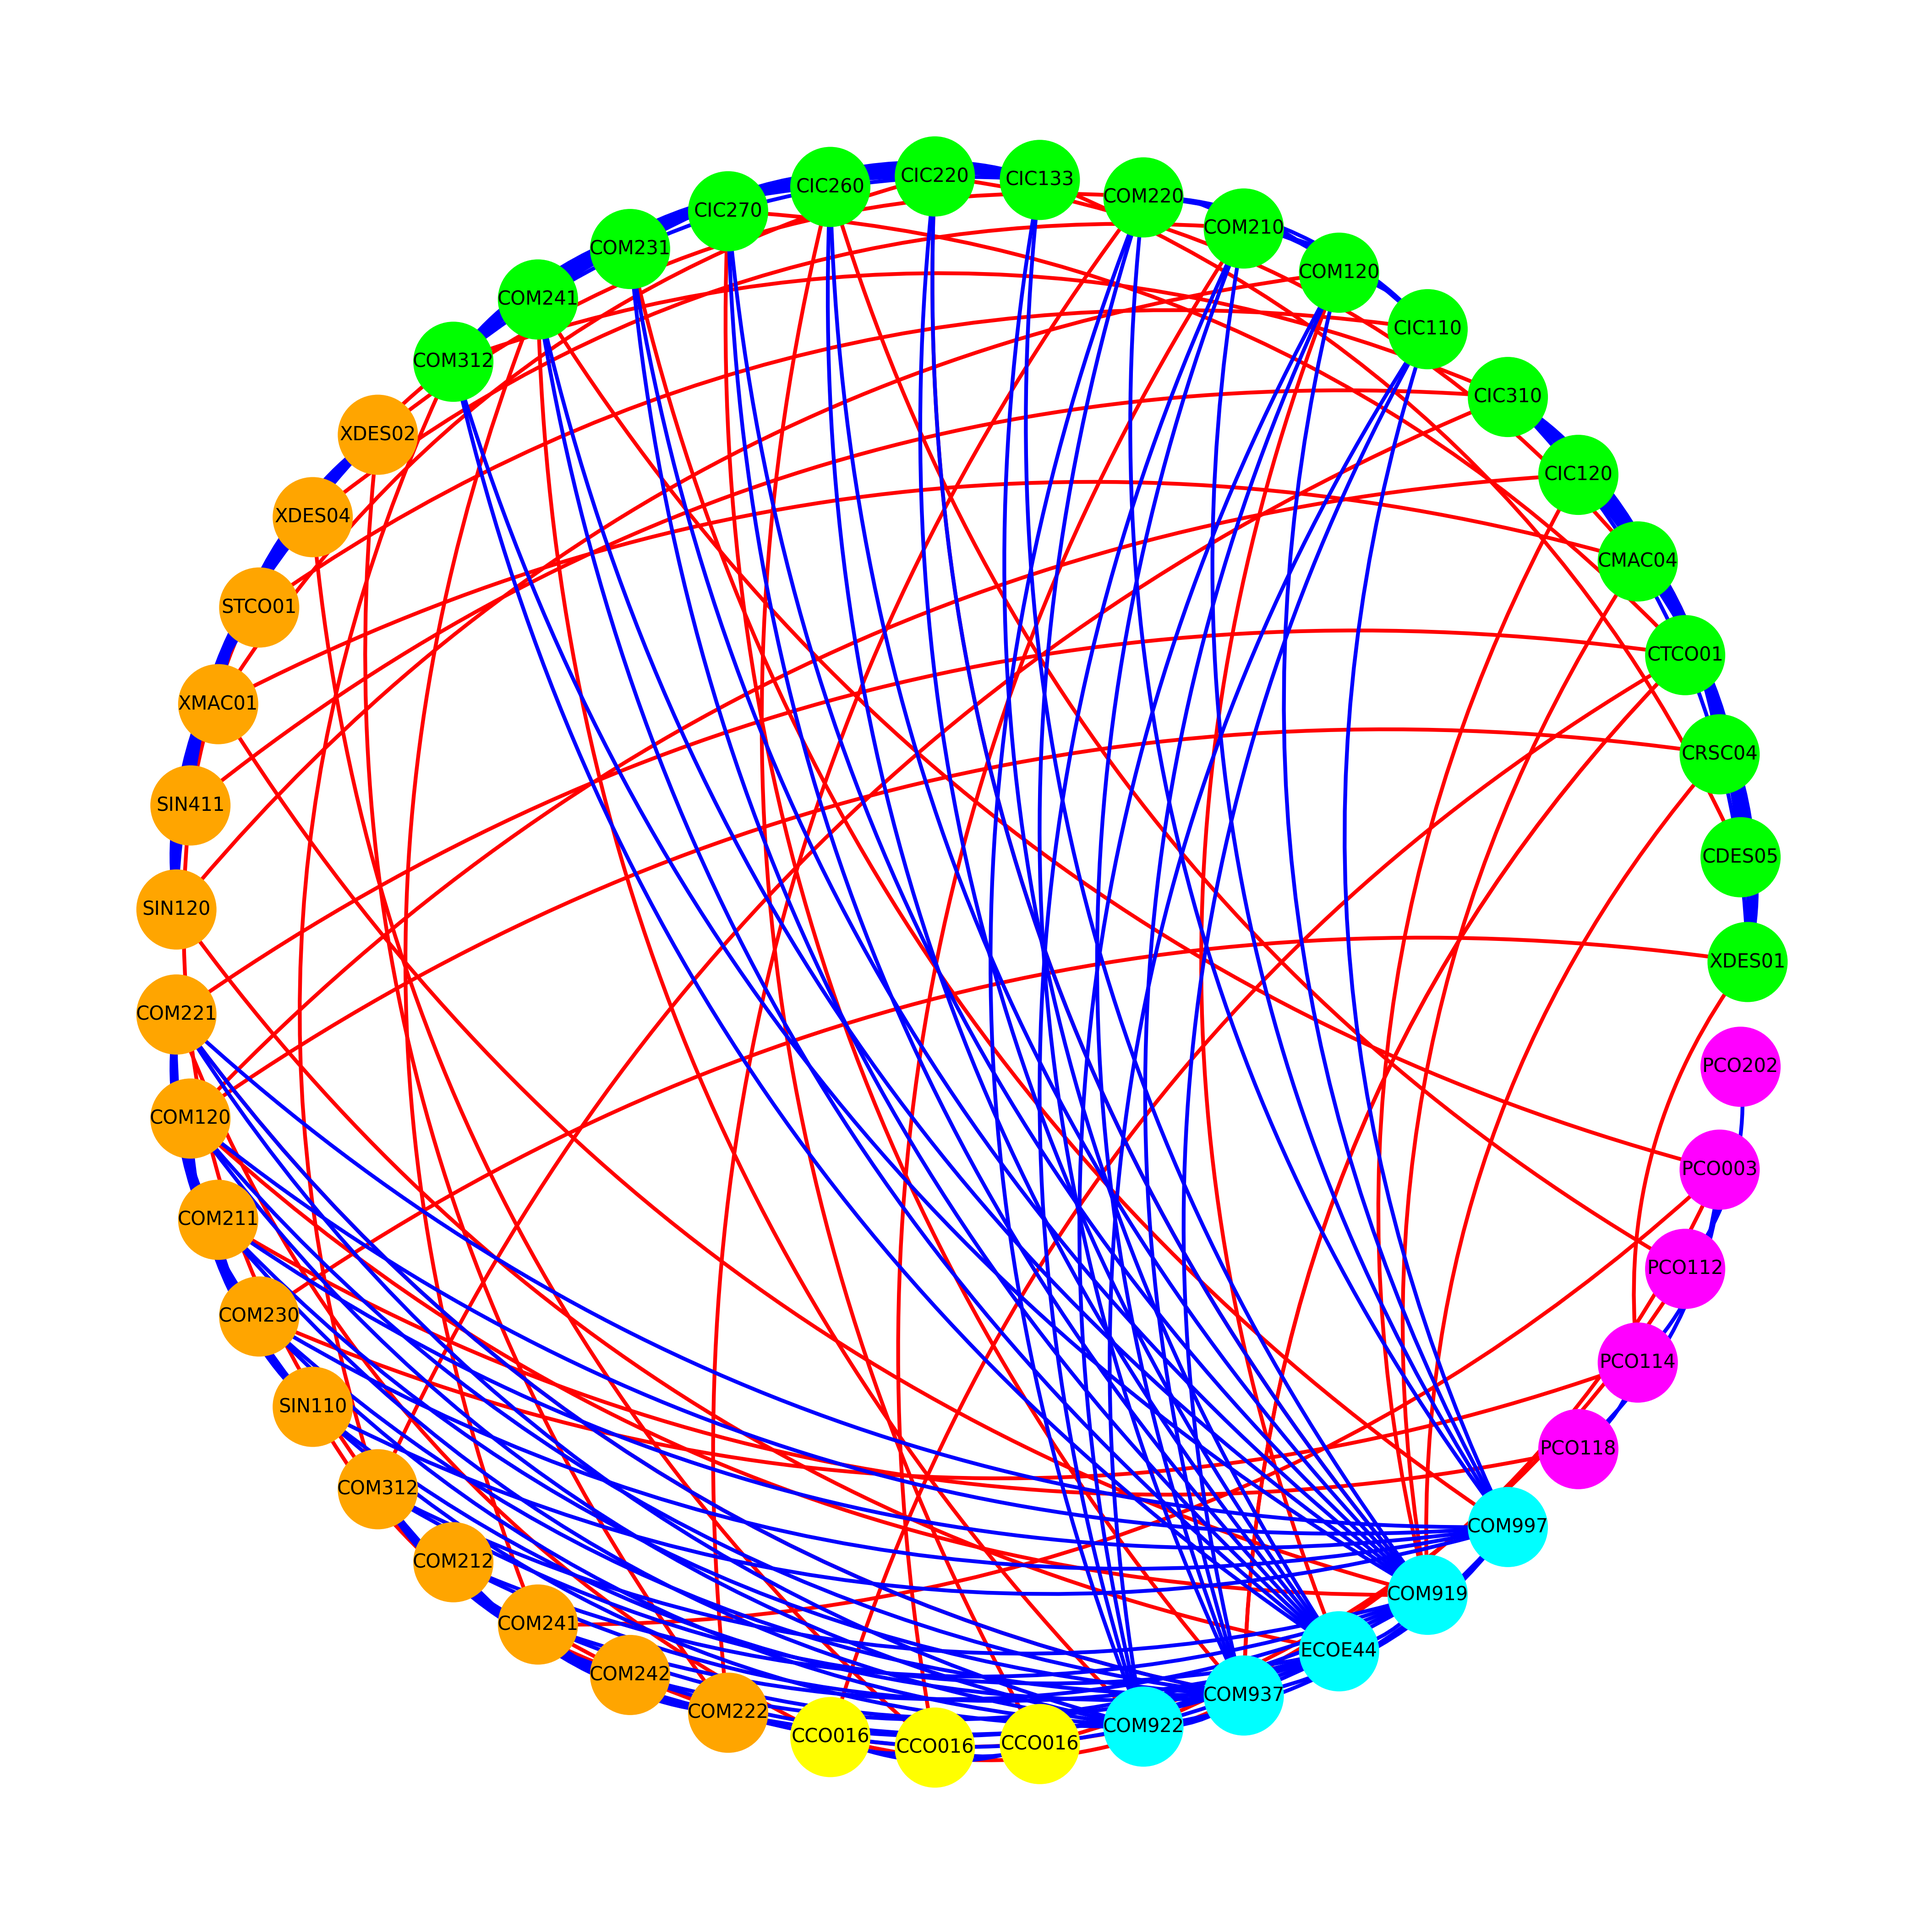
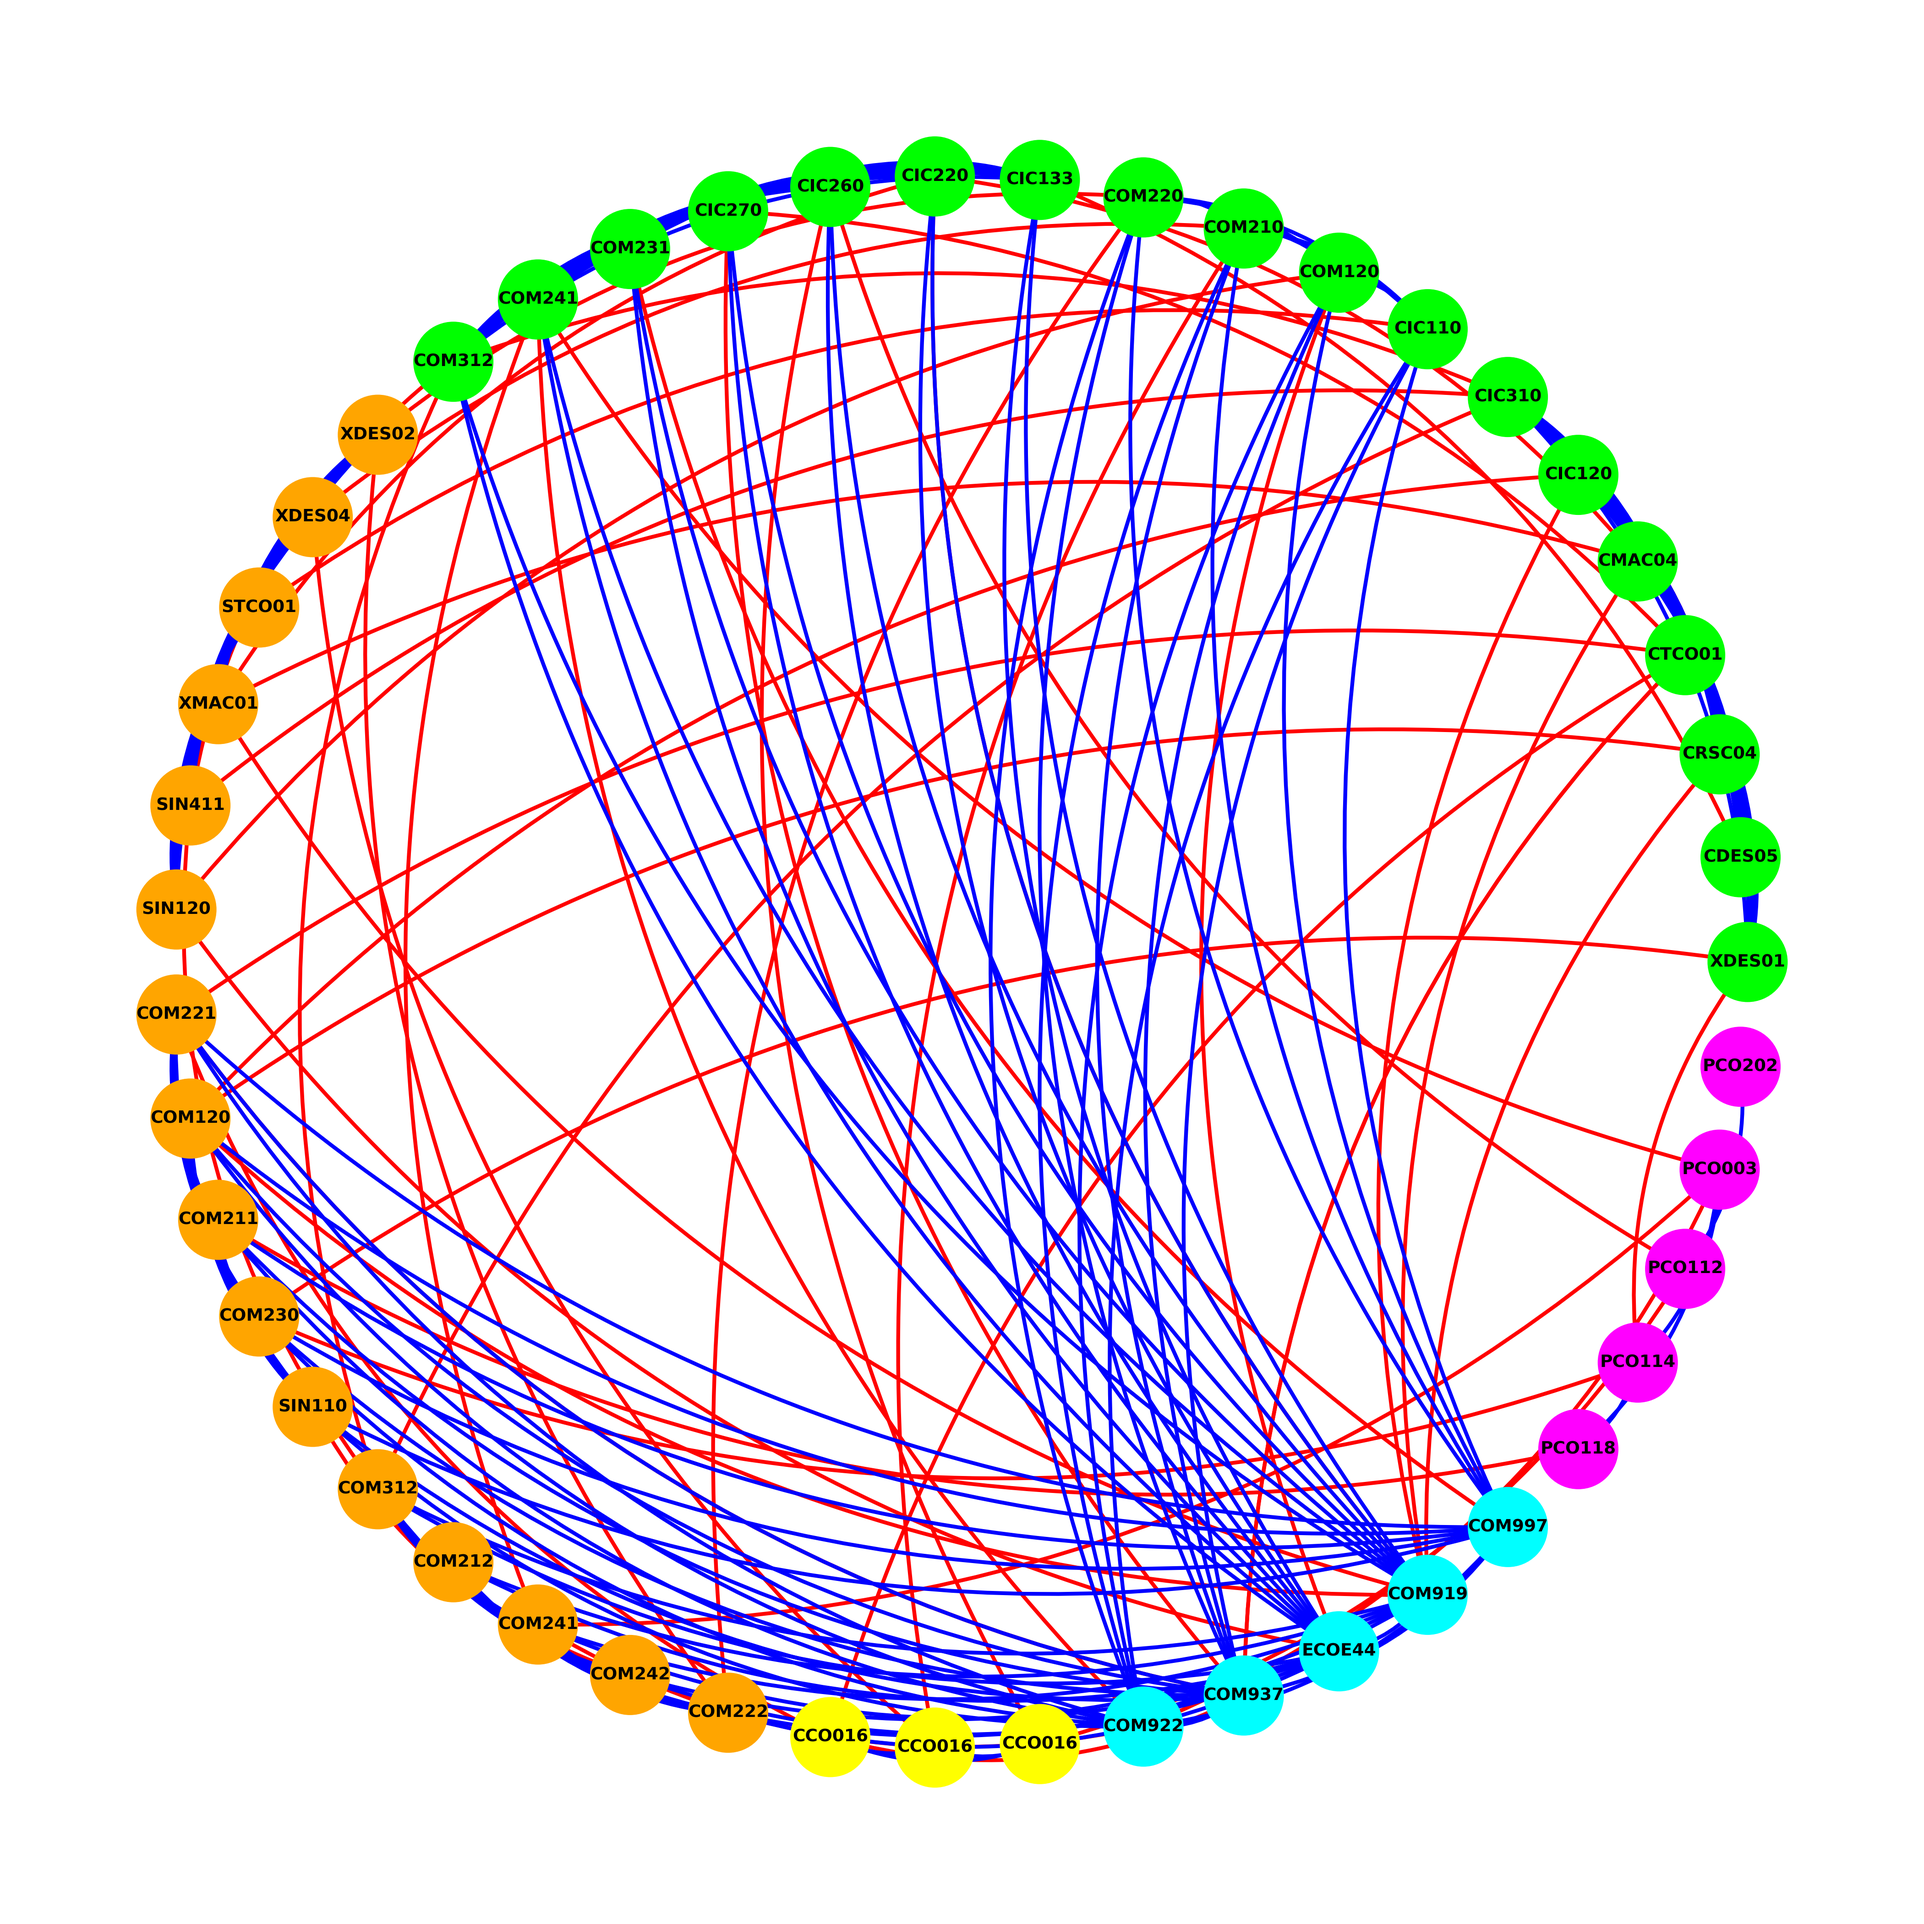
ajuste na fonte do grafo para melhor legibilidade

Changed region(s): [[0.0936, 0.3431, 0.1248, 0.3743]]

diff --git a/src/model/grafo.py b/src/model/grafo.py
@@ -60,9 +60,9 @@ def grafo(aulas_dict: dict, save_path):
                 G.add_edge(nome_i, nome_j, curso="Curso", color='blue')
                 num_restricoes_periodos += 1
 
-    print(f"A instancia {save_path[-15:]} possui {G.number_of_edges()} restricoes no total.")
-    print(f"{num_restricoes_periodos} restrições relacionadas aos periodos em comum.")
-    print(f"{num_restricoes_professores} restrições relacionadas aos professores em comum.")
+    print(f"A instancia referente ao {save_path[-15:-4]} possui um total de {G.number_of_nodes()} variveis e {G.number_of_edges()} conflitos locais.")
+    print(f"{num_restricoes_periodos} conflitos relacionados aos periodos em comum.")
+    print(f"{num_restricoes_professores} conflitos relacionados aos professores em comum.")
 
     plt.figure(figsize=(7, 7))
     fig = plt.gcf()
@@ -76,7 +76,7 @@ def grafo(aulas_dict: dict, save_path):
     # labels mostrando o código da aula
     labels = {n: n.get_codigo() for n in G.nodes}
 
-    nx.draw_networkx_labels(G, pos, labels=labels, font_size=5)
+    nx.draw_networkx_labels(G, pos, labels=labels, font_size=4.5, font_weight='bold')
 
     red_edges = [(u, v, k) for u, v, k, d in G.edges(keys=True, data=True) if d.get('color') == 'red']
     blue_edges = [(u, v, k) for u, v, k, d in G.edges(keys=True, data=True) if d.get('color') == 'blue']
